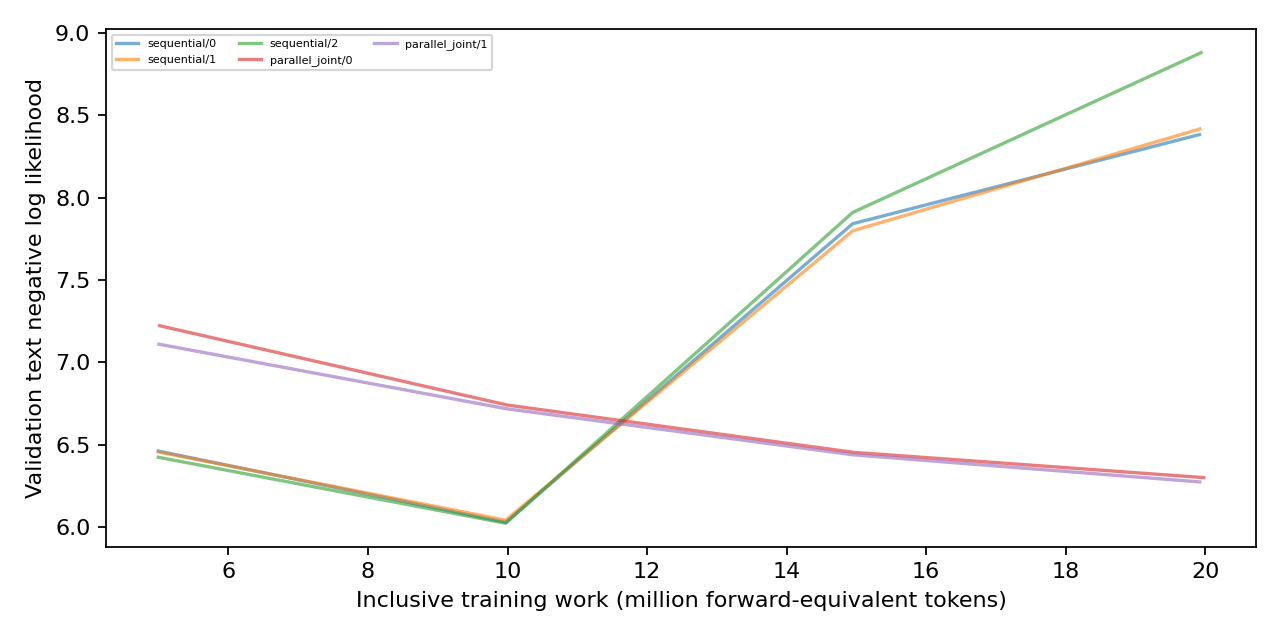
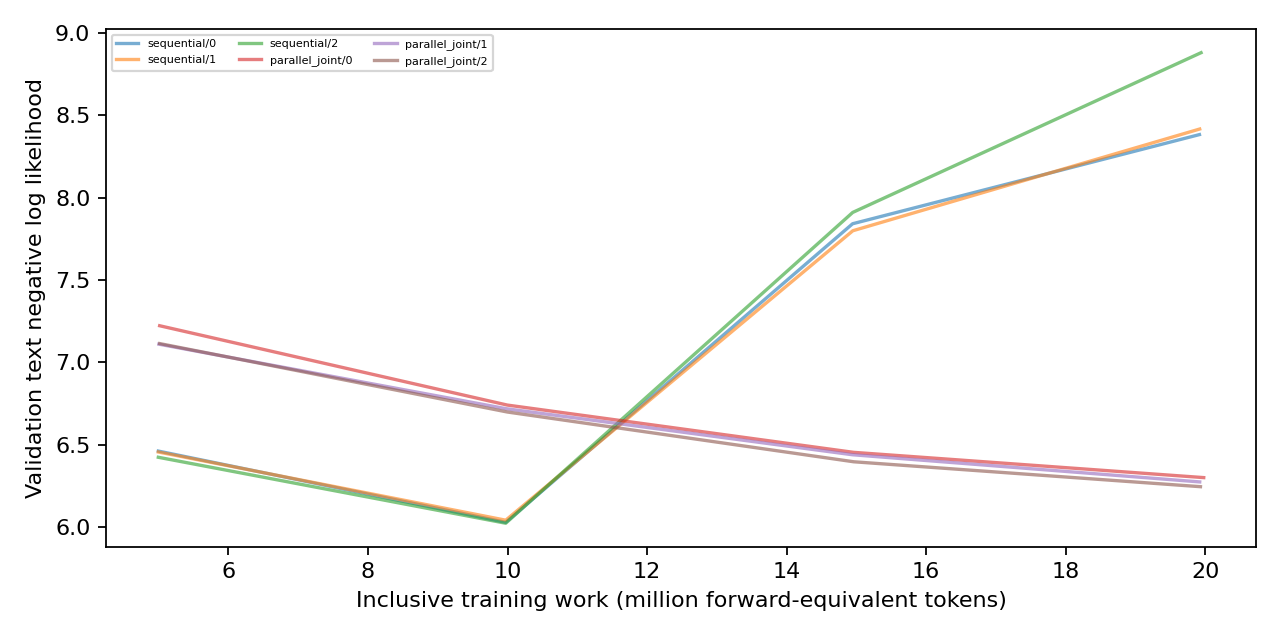
Report verified unified-training pilot progress

diff --git a/experiments/01_scratch_joint_objectives/results.md b/experiments/01_scratch_joint_objectives/results.md
@@ -9,7 +9,7 @@
 | sequential | 2 | complete | 19.941 | 0.2580 [0.2408, 0.2760] | 0.0114 [0.0069, 0.0187] | 8.8562 [8.8332, 8.8797] | 0.5117 [0.4508, 0.5723] / 0.5039 [0.4431, 0.5646] |
 | parallel_joint | 0 | complete | 19.979 | 0.2454 [0.2285, 0.2631] | 0.0038 [0.0016, 0.0088] | 6.2521 [6.2239, 6.2815] | 0.4844 [0.4238, 0.5454] / 0.5000 [0.4392, 0.5608] |
 | parallel_joint | 1 | complete | 19.921 | 0.2534 [0.2363, 0.2712] | 0.0212 [0.0147, 0.0305] | 6.2255 [6.1981, 6.2545] | 0.5039 [0.4431, 0.5646] / 0.5391 [0.4779, 0.5991] |
-| parallel_joint | 2 | pending | unavailable | unavailable | unavailable | unavailable | unavailable |
+| parallel_joint | 2 | complete | 19.932 | 0.2504 [0.2334, 0.2682] | 0.0030 [0.0012, 0.0078] | 6.2258 [6.1987, 6.2543] | 0.5000 [0.4392, 0.5608] / 0.4609 [0.4009, 0.5221] |
 | fixed_joint | 0 | pending | unavailable | unavailable | unavailable | unavailable | unavailable |
 | fixed_joint | 1 | pending | unavailable | unavailable | unavailable | unavailable | unavailable |
 | fixed_joint | 2 | pending | unavailable | unavailable | unavailable | unavailable | unavailable |
@@ -33,7 +33,7 @@ NLL = negative log likelihood; preference raw ordering is the preference endpoin
 
 Intervals: 95% Wilson binary-item score, conditional on each trained model; p-val=n/a (no hypothesis test). Three seeds do not establish universal superiority. Aioli, CHORD (Controllable Harmonization of On- and Off-Policy Reinforcement Learning via Dynamic Weighting), and RPT (Reinforcement Pre-Training) are declared adaptations; exact CHERRY-RL identity remains unresolved.
 
-Complete: 5/24. See `expt_v1/PROTOCOL.md` and the program review reconciliation.
+Complete: 6/24. See `expt_v1/PROTOCOL.md` and the program review reconciliation.
 
 Seed uncertainty, two-stage seed/item intervals, initial-checkpoint changes and all paired comparisons: `expt_v1/analysis.json`. Missing trained seeds remain missing with separate accuracy sensitivity bounds. p-val=n/a throughout; no formal superiority verdict.
 

diff --git a/experiments/00_program/FINAL_STATUS.md b/experiments/00_program/FINAL_STATUS.md
@@ -1,6 +1,6 @@
 # Full-program status
 
-Verified cells: 5/48; failed: 0; interrupted: 0; pending: 43; unstarted at global bound: 0.
+Verified cells: 6/48; failed: 0; interrupted: 0; pending: 42; unstarted at global bound: 0.
 
 Full-program execution is incomplete. Required plan and implementation findings are reconciled; see acceptance.json.
 Results and uncertainty are in each experiment folder; no universal-superiority claim.
